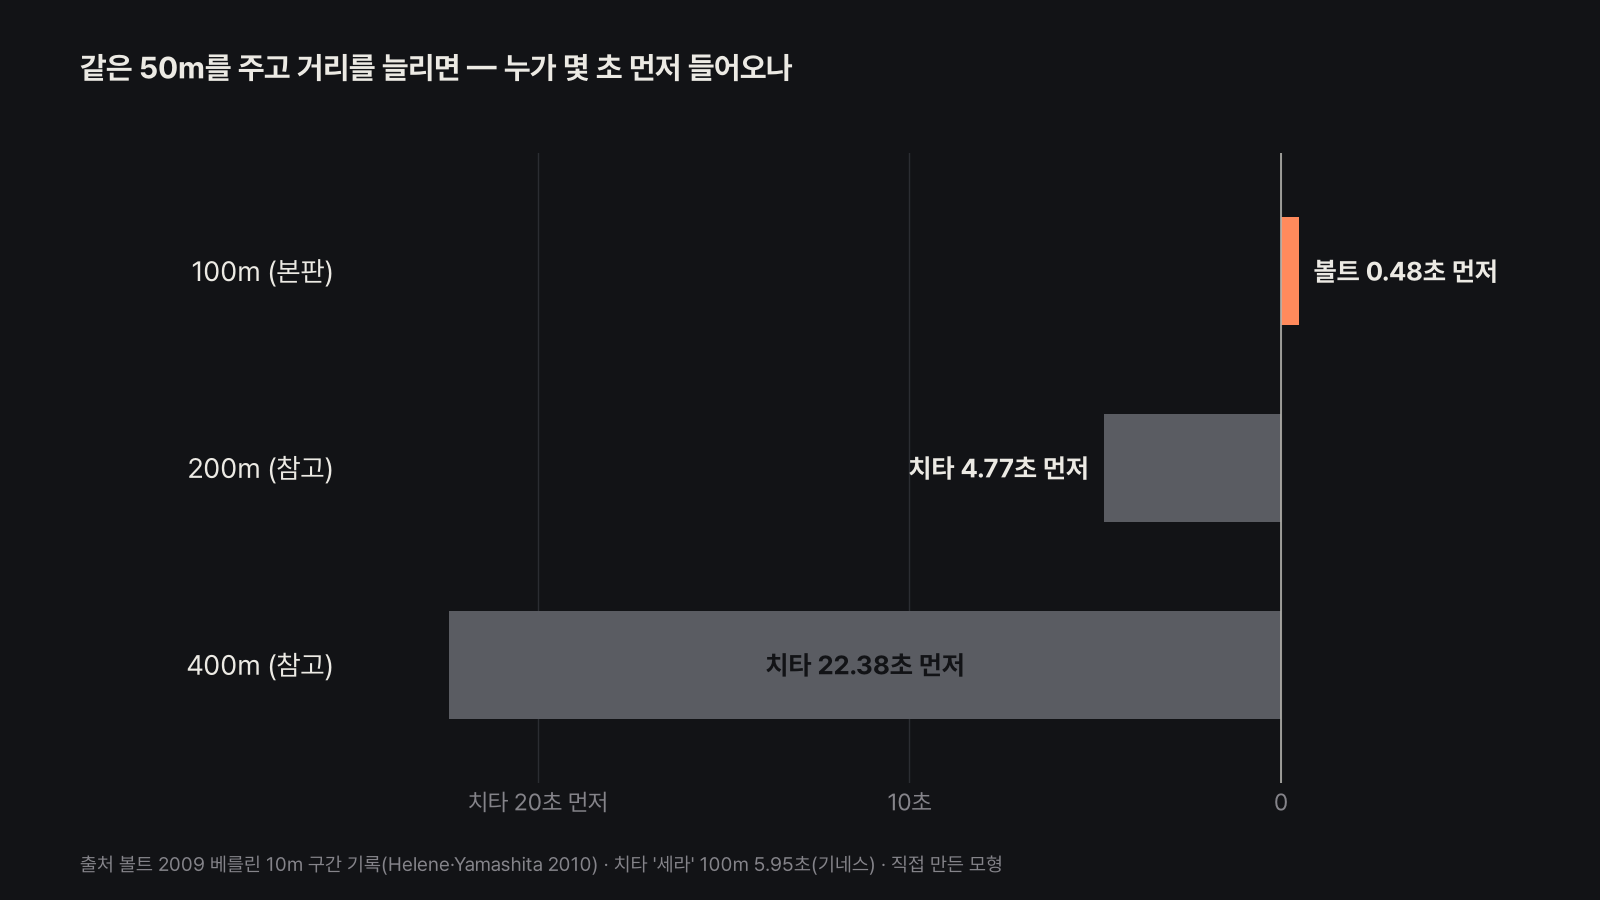
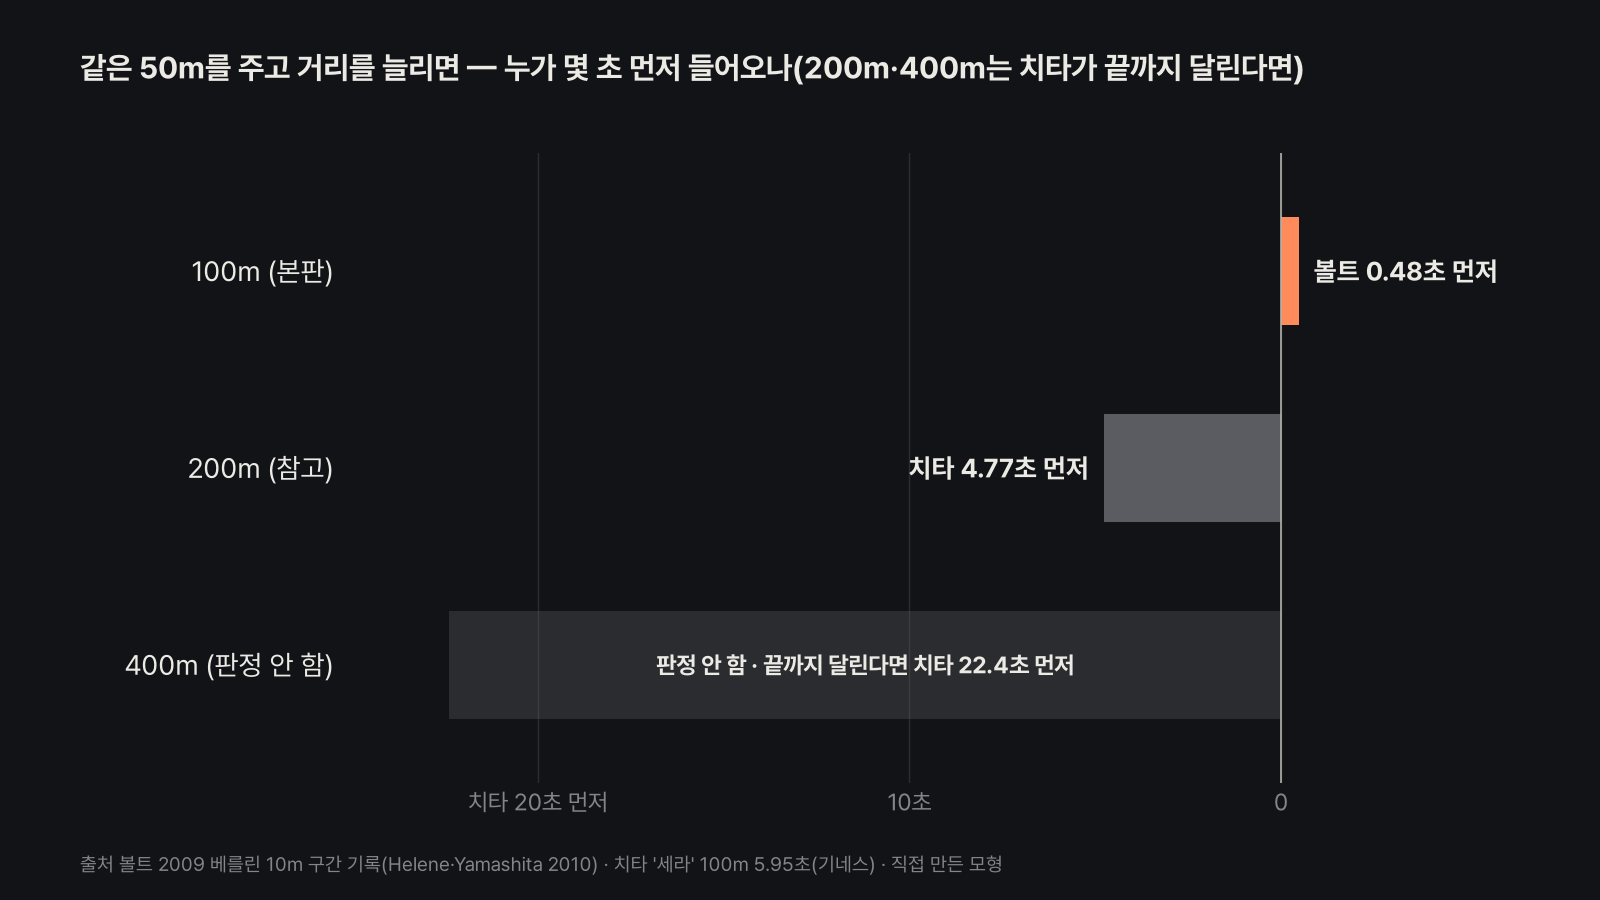
사이트 갱신 (Actions)

Changed region(s): [[0.2812, 0.6533, 0.8125, 0.8089], [0.5, 0.0622, 0.8125, 0.0933], [0.0625, 0.7156, 0.2188, 0.7778]]

diff --git a/2026-11_odd-bolt-cheetah/index.html b/2026-11_odd-bolt-cheetah/index.html
@@ -57,7 +57,7 @@
 <article class="art">
 <span class="kick">엉뚱한 비교</span><h1>100m 달리기, 우사인 볼트가 50m 앞에서 출발하면 치타를 이길까</h1>
 <p class="dek">결과를 보기 전에 먼저 골라 주세요. 투표하면 독자 예상과 데이터 결과를 나란히 보여 드려요.</p>
-<div class="byline"><span>FITAHW</span><span>읽는 데 7분</span><span>Helene·Yamashita 2010, Wilson 2013, 기네스</span><span class="sp"></span><a href="#evidence">근거</a><button type="button" class="pill" data-copy="https://protofu.github.io/opendata-insight/2026-11_odd-bolt-cheetah/" hidden><svg viewBox="0 0 24 24" aria-hidden="true"><rect x="9" y="9" width="12" height="12" rx="2" fill="none" stroke="currentColor" stroke-width="2"/><path d="M5 15V5a2 2 0 0 1 2-2h10" fill="none" stroke="currentColor" stroke-width="2" stroke-linecap="round"/></svg><span>링크 복사</span></button></div>
+<div class="byline"><span>FITAHW</span><span>읽는 데 8분</span><span>Helene·Yamashita 2010, Wilson 2013, 기네스</span><span class="sp"></span><a href="#evidence">근거</a><button type="button" class="pill" data-copy="https://protofu.github.io/opendata-insight/2026-11_odd-bolt-cheetah/" hidden><svg viewBox="0 0 24 24" aria-hidden="true"><rect x="9" y="9" width="12" height="12" rx="2" fill="none" stroke="currentColor" stroke-width="2"/><path d="M5 15V5a2 2 0 0 1 2-2h10" fill="none" stroke="currentColor" stroke-width="2" stroke-linecap="round"/></svg><span>링크 복사</span></button></div>
 <ul class="points"><li>100m 경주예요. 우사인 볼트가 50m 앞에서 출발하고, 치타는 출발선에서 출발해요. 누가 먼저 들어올까요?</li><li>볼트는 2009년 베를린 세계선수권(9초 58)의 10m 구간 기록, 치타는 공식 측정이 남은 100m 기록과 야생 치타 연구로 맞췄어요.</li><li>투표하면 결과가 바로 아래에 열려요. 몇 m 앞에서 출발해야 비기는지, 200m·400m라면 어떻게 되는지도 함께 보여 드려요.</li></ul><div class="body"><section class="sec"><h2>조건과 규칙</h2>
 <ul>
 <li><strong>볼트</strong>는 2009년 베를린 100m 결승의 10m 구간 기록을 그대로 써요. 50m 앞에서 출발한 볼트는 남은 50m만 달려요.</li>
@@ -69,11 +69,11 @@
 <section class="sec"><h2>결과 요약</h2>
 <ol>
 <li>최종 판정은 볼트 승이에요. 동물원 치타 '세라'가 실제로 잰 100m 5.95초 기준으로, 50m 앞에서 출발한 볼트가 0.48초 먼저 들어와요.</li>
-<li>비기려면 볼트가 44m만 앞서면 돼요. 같은 50m를 주고 200m·400m를 달리면 치타가 이겨요.</li>
+<li>비기려면 볼트가 44m만 앞서면 돼요. 같은 50m를 주고 200m를 달리면 치타가 이겨요(치타가 그 거리를 다 달린다면). 400m는 치타가 그렇게 오래 달린 측정이 없어 판정하지 않았어요.</li>
 <li>치타가 달리면서 출발선을 지나거나, 출발을 약 4분의 1 더 세게 하면 100m도 치타가 이겨요.</li>
 </ol>
 <p><strong>그래서?</strong> 짧은 거리에서는 출발이 승부를 가르고, 거리가 길어질수록 최고 속도가 이겨요.</p>
-<section class="poll" data-poll="bolt-cheetah" data-mode="result" hidden><p class="poll-k">독자 예상 vs 데이터 결과</p><h3 class="poll-q">100m 달리기, 볼트가 50m 앞에서 출발하면?</h3><div class="poll-res"><div class="poll-bar ans" data-v="a"><i></i><span class="poll-l"><b>A</b> 볼트가 이긴다<em>데이터 결과</em></span><span class="poll-p"></span></div><div class="poll-bar" data-v="b"><i></i><span class="poll-l"><b>B</b> 치타가 이긴다</span><span class="poll-p"></span></div></div><p class="poll-ans">데이터로 보면 <mark>볼트가 이긴다</mark>. 100m는 볼트가 0.48초 먼저 들어와요. 같은 50m를 주고 200m부터는 치타예요.</p><p class="poll-meta" aria-live="polite"></p></section>
+<section class="poll" data-poll="bolt-cheetah" data-mode="result" hidden><p class="poll-k">독자 예상 vs 데이터 결과</p><h3 class="poll-q">100m 달리기, 볼트가 50m 앞에서 출발하면?</h3><div class="poll-res"><div class="poll-bar ans" data-v="a"><i></i><span class="poll-l"><b>A</b> 볼트가 이긴다<em>데이터 결과</em></span><span class="poll-p"></span></div><div class="poll-bar" data-v="b"><i></i><span class="poll-l"><b>B</b> 치타가 이긴다</span><span class="poll-p"></span></div></div><p class="poll-ans">데이터로 보면 <mark>볼트가 이긴다</mark>. 100m는 볼트가 0.48초 먼저 들어와요. 같은 50m를 주고 200m는 치타예요(치타가 끝까지 달린다면).</p><p class="poll-meta" aria-live="polite"></p></section>
 <figure class="fig"><a href="chart_odd_bolt_race.png" title="원본 크기로 보기"><picture><source srcset="chart_odd_bolt_race.m.dark.png" media="(max-width: 560px) and (prefers-color-scheme: dark)"><source srcset="chart_odd_bolt_race.m.png" media="(max-width: 560px)"><source srcset="chart_odd_bolt_race.dark.png" media="(prefers-color-scheme: dark)"><img src="chart_odd_bolt_race.png" alt="차트"></picture></a></figure>
 </section><section class="sec">
 <p>볼트는 50m 지점, 치타는 출발선에서 정지 상태로, 같은 신호에 출발해요. 볼트는 실제 세계 기록 경주의 구간 기록을, 치타는 정지 출발로 100m를 잰 공식 기록을 썼어요. 둘 다 '실제로 잰 100m'끼리 붙이려고 이렇게 정했어요.</p>
@@ -109,12 +109,12 @@
 </tr>
 <tr>
 <td>400m, 볼트 50m 앞</td>
-<td>치타</td>
-<td>치타가 22.4초 먼저</td>
+<td>판정 안 함</td>
+<td>야생 치타 한 번 질주는 평균 173m</td>
 </tr>
 </tbody>
 </table></div>
-<p><strong>최종: 질문의 100m는 볼트 승. 같은 50m를 주고 200m부터는 치타 승이에요.</strong></p>
+<p><strong>최종: 질문의 100m는 볼트 승. 같은 50m를 주고 200m는 치타 승(치타가 끝까지 달린다면)이에요.</strong></p>
 <figure class="fig"><a href="chart_odd_bolt_rounds.png" title="원본 크기로 보기"><picture><source srcset="chart_odd_bolt_rounds.dark.png" media="(prefers-color-scheme: dark)"><img src="chart_odd_bolt_rounds.png" alt="차트" loading=lazy></picture></a></figure>
 <h3>본판 100m — 볼트 승</h3>
 <p>볼트는 남은 50m를 5.47초에 달려요. 베를린 결승에서 볼트가 50m를 지난 시간이 바로 5.47초였어요. 치타는 100m에 5.95초가 걸려요.</p>
@@ -123,8 +123,11 @@
 <p>비기려면 볼트가 44m만 앞서면 돼요. 치타가 들어오는 5.95초에 볼트가 출발선에서 간 거리가 55.9m라서예요. 50m는 6m 넉넉한 앞출발이었어요.</p>
 <h3>거리를 늘리면 200m — 치타 승(치타가 끝까지 달린다면)</h3>
 <p>같은 50m를 주고 200m를 달리면 치타가 4.77초 먼저 들어와요. 치타가 최고 속도에 닿은 뒤로는 1초에 27m씩, 볼트는 10m 남짓씩 가니 차이가 금방 벌어져요. 비기려면 볼트가 100m, 경주의 절반을 앞서야 해요.</p>
-<h3>거리를 늘리면 400m — 치타 승(치타가 끝까지 달린다면)</h3>
-<p>400m에선 치타가 22.4초 먼저 들어와요. 비기려면 볼트가 238m를 앞서야 해요. 야생 치타는 대부분 짧게 달려요. 야생 치타 5마리를 잰 연구(Wilson 2013)에서 최고 속도는 보통 1~2초만 냈어요. 그래도 그 연구의 사냥 평균 최고 속도로만 달려도 400m에선 치타가 이겨요. 400m를 끝까지 달리지 않고 멈추면 볼트가 이겨요.</p>
+<h3>400m는 판정하지 않아요</h3>
+<blockquote>
+<p><strong>치타는 그렇게 오래 달리지 않아요.</strong> 야생 치타 5마리의 질주 367번을 잰 연구(Wilson 2013)에서, 한 번 달린 거리는 평균 173m였고 가장 길게 달린 것도 개체마다 407~559m였어요. 최고 속도는 보통 1~2초만 냈어요. 치타가 400m를 최고 속도로 끝까지 달린다는 건 측정이 없는 가정이라, 400m 판정은 뺐어요.</p>
+</blockquote>
+<p>계산만 해 보면, 치타가 최고 속도를 400m 내내 유지하면 22.4초 먼저 들어와요. 그 연구의 사냥 평균 최고 속도(초속 14.9m)로만 달려도 치타가 앞서요. 하지만 중간에 멈추면 볼트가 이겨요. 200m도 평균 질주 거리(173m)보다 길어서, 200m 판정 역시 '치타가 끝까지 달린다면'이라는 조건이 붙어요.</p>
 <h3>100m가 뒤집히는 조건</h3>
 <p>치타가 세라보다 약 8% 짧은 시간에, 곧 100m를 5.47초 안에 들어오면 본판이 뒤집혀요. 세라 기록에 맞춘 출발이 평균 6.0m/s²인데, 이걸 약 4분의 1 더 세게(7.6m/s² 넘게) 하면 그렇게 돼요. 야생 치타는 한 걸음에 최대 초속 3m씩 빨라졌다는 측정이 있어서(Wilson 2013), 순간 가속은 그보다 셀 수 있어요. 그 가속을 100m 내내 평균으로 유지하는지는 아직 몰라요.</p>
 <figure class="fig"><a href="chart_odd_bolt_flip.png" title="원본 크기로 보기"><picture><source srcset="chart_odd_bolt_flip.dark.png" media="(prefers-color-scheme: dark)"><img src="chart_odd_bolt_flip.png" alt="차트" loading=lazy></picture></a></figure>
@@ -144,7 +147,7 @@
 <li>치타 기록은 동물원 치타가 미끼를 쫓아 직선으로 달린 기록이에요. 야생 치타의 사냥과는 다르고, 공식 육상 기록처럼 출발을 재지는 않았어요.</li>
 <li>거리별 위치를 그리려고 치타의 가속을 '일정한 가속도'로 단순하게 봤어요. 본판 판정은 세라의 실측 시간으로 정해지므로 가속 모양과 상관없어요.</li>
 <li>200m·400m에서 볼트의 첫 100m를 100m 기록대로 둔 건 볼트에게 조금 유리한 가정이에요. 결과는 바뀌지 않았어요.</li>
-<li>치타가 200m·400m를 최고 속도로 끝까지 달린다는 건 측정이 없는 가정이에요. 200m·400m 판정은 '치타가 끝까지 달린다면'이에요.</li>
+<li>치타가 200m·400m를 최고 속도로 끝까지 달린다는 건 측정이 없는 가정이에요. 야생 치타의 한 번 질주는 평균 173m라 400m 판정은 뺐고, 200m 판정은 '치타가 끝까지 달린다면'이에요.</li>
 <li>2차 자료에만 있는 숫자(세라의 2009년 기록 6.13초, 다른 치타의 6.19초, 치타 201m 7.0초, 볼트 200m 전·후반 9.92·9.27초)는 판정에 쓰지 않았어요.</li>
 </ul>
 </div></details></section><script>(function(){function o(){var h=location.hash.slice(1),e=h&&document.getElementById(h);var d=e&&e.closest("details");if(d){d.open=true;if(d!==e)e.scrollIntoView();}}addEventListener("hashchange",o);o();})();</script></div><section class="share-end"><p>카톡에 링크를 붙이면 숫자 카드랑 요약이 같이 떠요.</p><button type="button" class="btn" data-copy="https://protofu.github.io/opendata-insight/2026-11_odd-bolt-cheetah/" hidden><svg viewBox="0 0 24 24" aria-hidden="true"><rect x="9" y="9" width="12" height="12" rx="2" fill="none" stroke="currentColor" stroke-width="2"/><path d="M5 15V5a2 2 0 0 1 2-2h10" fill="none" stroke="currentColor" stroke-width="2" stroke-linecap="round"/></svg><span>링크 복사</span></button></section><section class="subscribe" id="subscribe"><div class="sub-t"><h2>새 글 나오면 받아 보기</h2><p>피드 리더 앱에 이 사이트 주소를 한 번 넣어 두면, 새 글이 올라올 때 앱에 떠요. 가입이나 메일 주소는 필요 없어요.</p></div><details class="how"><summary class="btn dark">받는 법 보기</summary><div class="how-in"><ol><li><b>피드 리더 앱을 하나 골라요.</b> 새 글을 모아 보여 주는 앱이에요. 예를 들면 <a href="https://feedly.com" target="_blank" rel="noopener">Feedly</a>나 <a href="https://www.inoreader.com" target="_blank" rel="noopener">Inoreader</a>가 있어요. 둘 다 무료고 웹·휴대폰에서 써요.</li><li><b>앱에서 '구독 추가'(+)를 누르고 아래 주소를 붙여 넣어요.</b></li><li><b>끝이에요.</b> 새 글이 올라오면 앱 목록에 떠요.</li></ol><div class="feed-addr"><code>https://protofu.github.io/opendata-insight/feed.xml</code><button type="button" class="btn" data-copy="https://protofu.github.io/opendata-insight/feed.xml" data-rel="../feed.xml" data-done="주소를 복사했어요" hidden><svg viewBox="0 0 24 24" aria-hidden="true"><rect x="9" y="9" width="12" height="12" rx="2" fill="none" stroke="currentColor" stroke-width="2"/><path d="M5 15V5a2 2 0 0 1 2-2h10" fill="none" stroke="currentColor" stroke-width="2" stroke-linecap="round"/></svg><span>주소 복사</span></button></div><p class="how-alt">Feedly를 쓴다면 <a href="https://feedly.com/i/subscription/feed%2Fhttps%3A%2F%2Fprotofu.github.io%2Fopendata-insight%2Ffeed.xml" target="_blank" rel="noopener">여기를 눌러 바로 추가</a>할 수도 있어요.</p></div></details></section>

diff --git a/2026-11_odd-ants-humans/index.html b/2026-11_odd-ants-humans/index.html
@@ -5,9 +5,9 @@
 <meta name="viewport" content="width=device-width, initial-scale=1, viewport-fit=cover">
 <meta name="claude:viewport-fit-sides" content="cover">
 <title>지구의 개미 전부 vs 사람 전부, 어느 쪽이 더 무거울까</title>
-<meta name="description" content="결과를 보기 전에 먼저 골라 주세요. 투표하면 독자 예상과 데이터 결과를 나란히 보여 드려요. 지구에 사는 개미를 전부 저울 한쪽에, 사람 83억 명을 다른 쪽에 올리면 어느 쪽으로 기울까요?">
+<meta name="description" content="결과를 보기 전에 먼저 골라 주세요. 투표하면 독자 예상과 데이터 결과를 나란히 보여 드려요. &quot;개미를 다 모으면 사람만큼 무겁다.&quot; 과학책과 인터넷에 자주 나오는 말이에요.">
 <meta property="og:title" content="지구의 개미 전부 vs 사람 전부, 어느 쪽이 더 무거울까">
-<meta property="og:description" content="결과를 보기 전에 먼저 골라 주세요. 투표하면 독자 예상과 데이터 결과를 나란히 보여 드려요. 지구에 사는 개미를 전부 저울 한쪽에, 사람 83억 명을 다른 쪽에 올리면 어느 쪽으로 기울까요?">
+<meta property="og:description" content="결과를 보기 전에 먼저 골라 주세요. 투표하면 독자 예상과 데이터 결과를 나란히 보여 드려요. &quot;개미를 다 모으면 사람만큼 무겁다.&quot; 과학책과 인터넷에 자주 나오는 말이에요.">
 <meta property="og:type" content="article">
 <meta property="og:image" content="https://protofu.github.io/opendata-insight/2026-11_odd-ants-humans/og.png">
 <meta property="og:image:width" content="1200"><meta property="og:image:height" content="630">
@@ -58,7 +58,7 @@
 <span class="kick">엉뚱한 비교</span><h1>지구의 개미 전부 vs 사람 전부, 어느 쪽이 더 무거울까</h1>
 <p class="dek">결과를 보기 전에 먼저 골라 주세요. 투표하면 독자 예상과 데이터 결과를 나란히 보여 드려요.</p>
 <div class="byline"><span>FITAHW</span><span>읽는 데 9분</span><span>Schultheiss 2022·Bar-On 2018(PNAS)·유엔 세계인구전망 2024</span><span class="sp"></span><a href="#evidence">근거</a><button type="button" class="pill" data-copy="https://protofu.github.io/opendata-insight/2026-11_odd-ants-humans/" hidden><svg viewBox="0 0 24 24" aria-hidden="true"><rect x="9" y="9" width="12" height="12" rx="2" fill="none" stroke="currentColor" stroke-width="2"/><path d="M5 15V5a2 2 0 0 1 2-2h10" fill="none" stroke="currentColor" stroke-width="2" stroke-linecap="round"/></svg><span>링크 복사</span></button></div>
-<ul class="points"><li>지구에 사는 개미를 전부 저울 한쪽에, 사람 83억 명을 다른 쪽에 올리면 어느 쪽으로 기울까요?</li><li>"개미를 다 모으면 사람만큼 무겁다"는 말, 진짜일까요?</li><li>세 가지 저울로 재 봤어요. 투표하면 결과가 바로 아래에 열려요.</li></ul><div class="body"><section class="sec"><h2>조건과 규칙</h2>
+<ul class="points"><li>"개미를 다 모으면 사람만큼 무겁다." 과학책과 인터넷에 자주 나오는 말이에요.</li><li>지구에 사는 개미를 전부 저울 한쪽에, 사람 83억 명을 다른 쪽에 올리면 정말 그럴까요?</li><li>세 가지 저울로 재 봤어요. 투표하면 결과가 바로 아래에 열려요.</li></ul><div class="body"><section class="sec"><h2>조건과 규칙</h2>
 <ul>
 <li><strong>개미</strong>는 지구에 사는 개미 전부예요. 땅 위와 나무 위에서 조사로 센 개미를 바탕으로 한 2022년 논문의 추정을 써요.</li>
 <li><strong>사람</strong>은 2026년 세계 인구 전부예요. 아이와 어른을 모두 넣어요.</li>
@@ -141,7 +141,7 @@
 <p>개미 전부(탄소 1,230만 t)는 야생 포유류 전부(약 700만 t)와 야생 새 전부(약 200만 t)를 합친 것보다 무거워요. 포유류와 새 가운데 사람보다 무거운 건 사람이 기르는 가축(약 1억 t)뿐이에요. 곤충과 거미 같은 땅 위 절지동물을 다 합치면 약 2억 t으로 사람보다 무거워요.</p>
 <h3>흰개미를 더하면 사람과 같아져요</h3>
 <p>흰개미는 이름에 '개미'가 붙었지만 개미가 아니에요. 유전자로 따지면 나무를 먹는 바퀴벌레 무리에서 갈라져 나와, 무리 지어 사는 바퀴벌레예요. 그래서 이 대결에서는 뺐어요. 그런데 생물 무게 논문은 흰개미 전부를 탄소 약 5,000만 t으로 어림하고 "사람과 비슷하다"고 적었어요. 이 어림값을 개미에 더하면 약 6,230만 t으로, 사람 전부(6,226만 t)와 거의 같아져요. 흰개미 값은 한 자리로 반올림한 어림이라 정확히 같다고 할 수는 없어요. 그래도 '개미와 사람이 같다'는 옛말이 흰개미까지 합치면 얼추 맞아떨어지는 건 재밌는 우연이에요.</p>
-<p>저울에 올려 보니 개미는 수로는 지구에서 손꼽히는 동물인데, 무게로는 사람 한 종이 다섯 배를 차지하고 있었어요. 그리고 평균 몸무게를 그대로 두고 셈하면 지금 사람 전부의 무게 가운데 70%는 1950년 뒤에 늘어난 무게라는 게, 이 계산에서 가장 오래 남는 숫자예요.</p>
+<p>결국 "개미를 다 모으면 사람만큼 무겁다"는 말은 틀렸어요. 탄소로 재든 살아 있는 무게로 재든, 범위 끝 값끼리 붙여도 사람이 무거워요. 그런데 이름만 개미인 흰개미를 함께 저울에 올리면 그 옛말이 얼추 맞아떨어져요. 옛말은 개미와 흰개미를 한데 묶었을 때만 맞아요.</p>
 </section></div><section class="ev" id="evidence"><h2>이 숫자는 어디서 왔나요</h2><details id="ev-source" open><summary>출처</summary><div class="in ev-source"><p class="ev-base"><b>기준일</b> 인구는 유엔 세계인구전망 2024(2026년 11월 8일 받음)의 2026년 값이에요. 조건은 2026년 11월 8일, 계산하기 전에 정했어요.</p>
 <div class="src-cards"><div class="src"><p class="src-h"><span>Schultheiss 외 2022,</span><b>PNAS</b></p><ul><li><div class="src-t">지구의 개미 수와 무게<small>doi:10.1073/pnas.2201550119</small><p>개미 약 2경 마리, 탄소 1,230만 t(표준오차 ±310만 t), 일개미 1마리 마른 무게 1.24mg</p></div><a class="src-go" href="https://doi.org/10.1073/pnas.2201550119" target="_blank" rel="noopener">원본 보기 <span aria-hidden="true">↗</span></a></li></ul></div><div class="src"><p class="src-h"><span>Bar-On·Phillips·Milo 2018,</span><b>PNAS</b></p><ul><li><div class="src-t">지구 생물의 무게 분포<small>doi:10.1073/pnas.1711842115</small><p>사람을 탄소로 바꾸는 계산법(평균 50kg × 0.15), 가축·야생 동물·흰개미·절지동물 탄소 무게</p></div><a class="src-go" href="https://doi.org/10.1073/pnas.1711842115" target="_blank" rel="noopener">원본 보기 <span aria-hidden="true">↗</span></a></li></ul></div><div class="src"><p class="src-h"><span>유엔 경제사회국 인구국</span></p><ul><li><div class="src-t">세계 인구 (World Population Prospects 2024)<p>2026년 7월 1일 8,300,678,395명(중위 추계), 1950년부터 해마다</p></div><a class="src-go" href="https://population.un.org/wpp/" target="_blank" rel="noopener">원본 보기 <span aria-hidden="true">↗</span></a></li></ul></div><div class="src"><p class="src-h"><span>Walpole 외 2012,</span><b>BMC Public Health</b></p><ul><li><div class="src-t">세계 성인의 몸무게<small>doi:10.1186/1471-2458-12-439</small><p>2005년 성인 46.3억 명, 2억 8,700만 t</p></div><a class="src-go" href="https://doi.org/10.1186/1471-2458-12-439" target="_blank" rel="noopener">원본 보기 <span aria-hidden="true">↗</span></a></li></ul></div><div class="src"><p class="src-h"><span>Bujan·Yanoviak·Kaspari 2016,</span><b>Ecology and Evolution</b></p><ul><li><div class="src-t">개미 몸의 물 비율<small>doi:10.1002/ece3.2355</small><p>개미 몸무게 중 물 48~75%</p></div><a class="src-go" href="https://doi.org/10.1002/ece3.2355" target="_blank" rel="noopener">원본 보기 <span aria-hidden="true">↗</span></a></li></ul></div><div class="src"><p class="src-h"><span>Fayle·Klimeš 2022,</span><b>PNAS</b></p><ul><li><div class="src-t">같은 호 논평<small>doi:10.1073/pnas.2214825119</small><p>개미 추정의 한계, 옛 추정 범위(탄소 500만~1억 t), 첫 개미 수 어림의 출처</p></div><a class="src-go" href="https://doi.org/10.1073/pnas.2214825119" target="_blank" rel="noopener">원본 보기 <span aria-hidden="true">↗</span></a></li></ul></div><div class="src"><p class="src-h"><span>Inward·Beccaloni·Eggleton 2007,</span><b>Biology Letters</b></p><ul><li><div class="src-t">흰개미의 계통<small>doi:10.1098/rsbl.2007.0102</small><p>흰개미는 무리 지어 사는 바퀴벌레</p></div><a class="src-go" href="https://doi.org/10.1098/rsbl.2007.0102" target="_blank" rel="noopener">원본 보기 <span aria-hidden="true">↗</span></a></li></ul></div></div>
 </div></details><details id="ev-how" open><summary>어떻게 셌나요</summary><div class="in ev-how">
